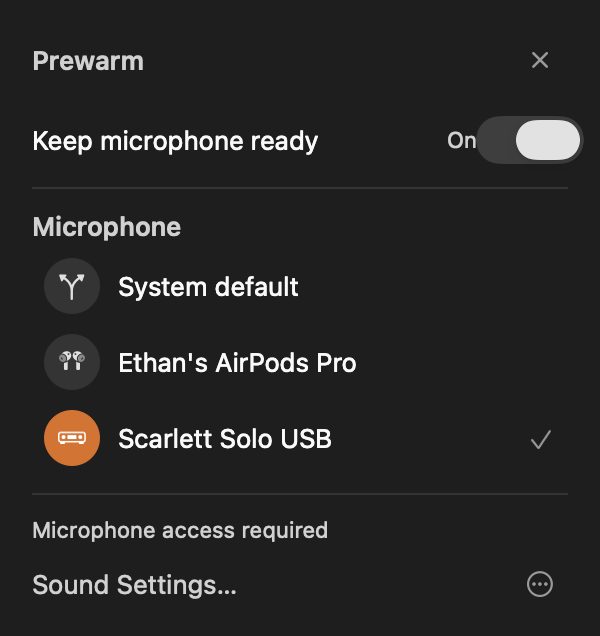
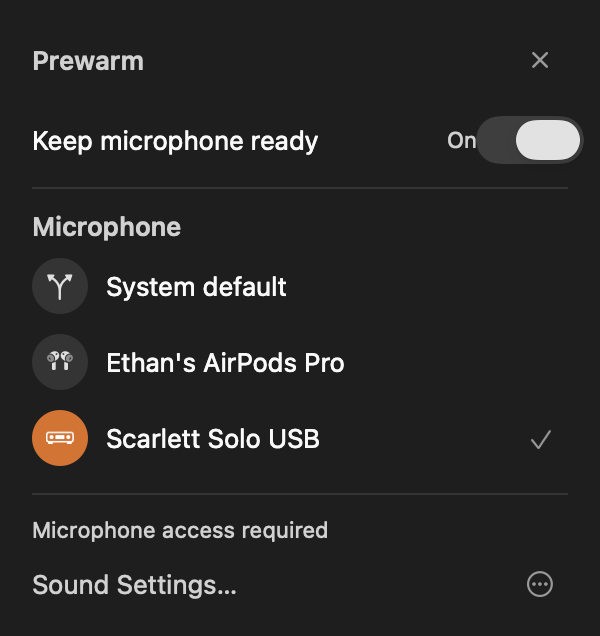
fix(ui): align microphone badges with section edge

diff --git a/scripts/AppearanceReview/main.swift b/scripts/AppearanceReview/main.swift
@@ -5,7 +5,7 @@ let root = CommandLine.arguments[1]
 let app = NSApplication.shared
 app.setActivationPolicy(.prohibited)
 app.applicationIconImage = NSImage(contentsOfFile: "\(root)/assets/Prewarm.icns")!
-let controller = AboutController(info: ["CFBundleShortVersionString": "0.1.2", "CFBundleVersion": "4"])
+let controller = AboutController(info: ["CFBundleShortVersionString": "0.1.2", "CFBundleVersion": "5"])
 let window = PrewarmWindow(contentRect: NSRect(x: 0, y: 0, width: 320, height: 460), styleMask: [.titled, .closable, .fullSizeContentView], backing: .buffered, defer: false)
 window.contentViewController = controller
 let panel = PrewarmPanel()
@@ -53,6 +53,7 @@ for (name, appearanceName) in [("light", NSAppearance.Name.aqua), ("dark", NSApp
     let readySize = panel.preferredContentSize
     let children = descendants(panel.view)
     let hovered = children.compactMap { $0 as? NSButton }.first { $0.accessibilityLabel() == "System default" }!
+    precondition(hovered.subviews.first?.frame.minX == 0, "Device badge must align with the section leading edge")
     let selectedBefore = hovered.accessibilityValue() as? String
     hovered.mouseEntered(with: NSEvent.mouseEvent(with: .mouseMoved, location: .zero, modifierFlags: [], timestamp: 0, windowNumber: panelWindow.windowNumber, context: nil, eventNumber: 0, clickCount: 0, pressure: 0)!)
     try save(panel.view, "panel-\(name)-hover")

diff --git a/Sources/Prewarm/PrewarmPanel.swift b/Sources/Prewarm/PrewarmPanel.swift
@@ -70,7 +70,7 @@ private final class DeviceRow: NSButton {
         for view in [badge, label, check] { view.translatesAutoresizingMaskIntoConstraints = false; addSubview(view) }
         NSLayoutConstraint.activate([
             heightAnchor.constraint(equalToConstant: 36),
-            badge.leadingAnchor.constraint(equalTo: leadingAnchor, constant: 6), badge.centerYAnchor.constraint(equalTo: centerYAnchor),
+            badge.leadingAnchor.constraint(equalTo: leadingAnchor), badge.centerYAnchor.constraint(equalTo: centerYAnchor),
             badge.widthAnchor.constraint(equalToConstant: 28), badge.heightAnchor.constraint(equalToConstant: 28),
             label.leadingAnchor.constraint(equalTo: badge.trailingAnchor, constant: 9), label.centerYAnchor.constraint(equalTo: centerYAnchor),
             label.trailingAnchor.constraint(lessThanOrEqualTo: check.leadingAnchor, constant: -8),

diff --git a/assets/icon-review.md b/assets/icon-review.md
@@ -43,3 +43,5 @@ Direct source/render review covers these fixtures. Rams remains unavailable as d
 Modern icon packaging: the deterministic renderer generates a mac AppIcon asset catalog from the same PNGs, and the public actool compiler produces Assets.car plus AppIcon.icns. Its generated partial Info.plist is merged into the bundle, providing both CFBundleIconName=AppIcon and the legacy CFBundleIconFile=AppIcon. The original Prewarm.icns is also retained for the explicit NSApplication icon. This follows Apple's [Configuring your app icon](https://developer.apple.com/documentation/xcode/configuring-your-app-icon) and [CFBundleIconName](https://developer.apple.com/documentation/bundleresources/information-property-list/cfbundleiconname). A correct ICNS fallback was already valid; asset-catalog packaging is not a proven fix for Control Center's placeholder until root inspects that actual surface.
 
 Bounded keyboard follow-up: choosing a device rebuilds selection checkmarks, so the controller now preserves the first responder by UID only when it was already one of that panel's device rows. The fixture focuses System default, invokes its native button action, and verifies the replacement row remains focused and selected. It does not steal focus from other controls. Retained native windows explicitly support Escape and Command-W through performClose; About text supports native selection.
+
+Build 5 aligns each device badge with the section header and divider leading edge by removing the row-only 6 pt inset. The full 36 pt rounded hover and 9 pt badge-to-label gap remain. The isolated fixture asserts the badge's leading edge is zero within its full-width native button. No capture, selection, or switch change.

diff --git a/README.md b/README.md
@@ -1,6 +1,6 @@
 # Prewarm
 
-Prewarm 0.1.2 (build 4), by Ethan Proia.
+Prewarm 0.1.2 (build 5), by Ethan Proia.
 
 A tiny macOS menu-bar utility that keeps your microphone warm by keeping its input stream active. It immediately discards audio samples; it does not record, analyze, save, or transmit audio. No third-party dependencies or network calls.
 
